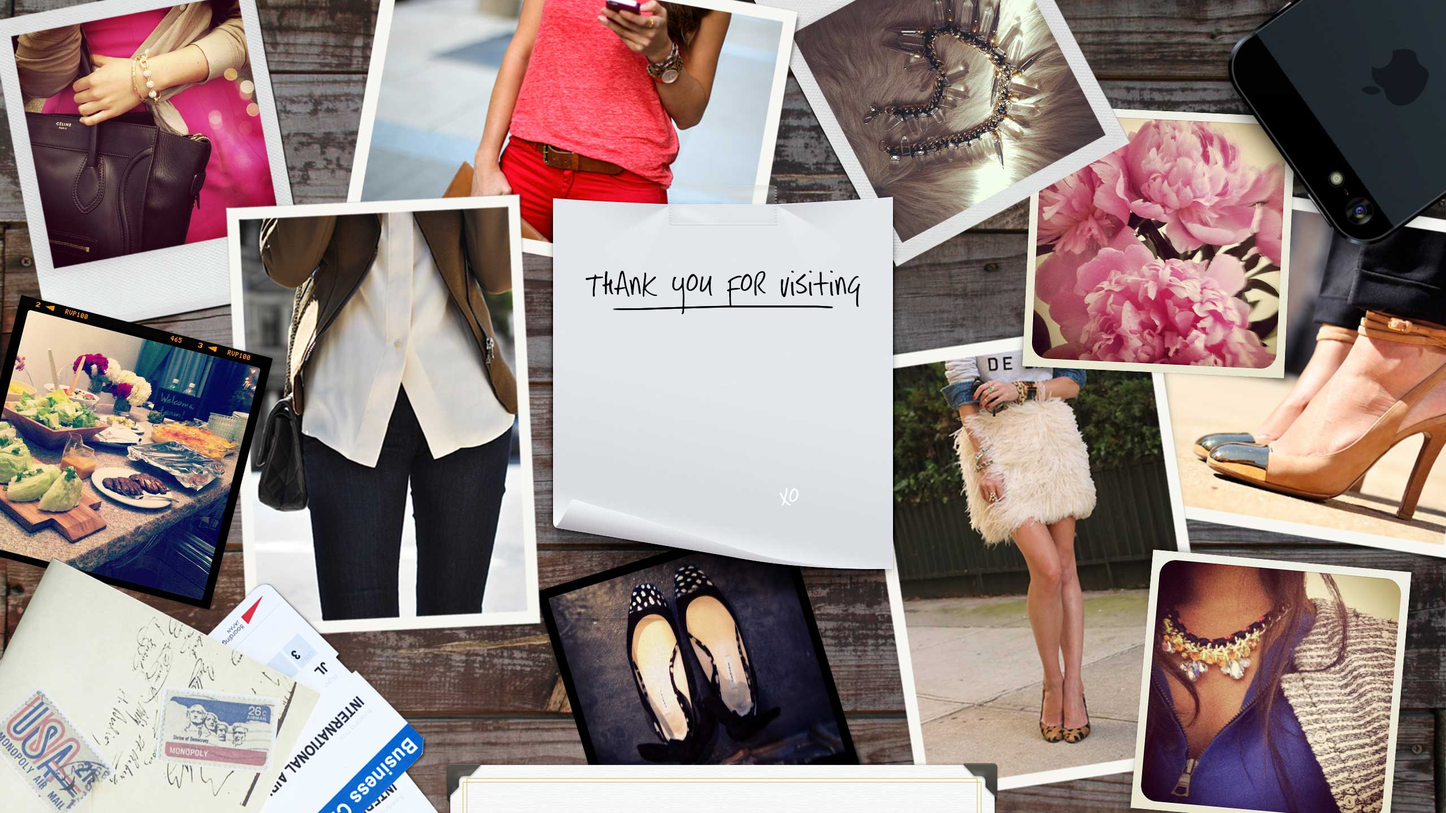
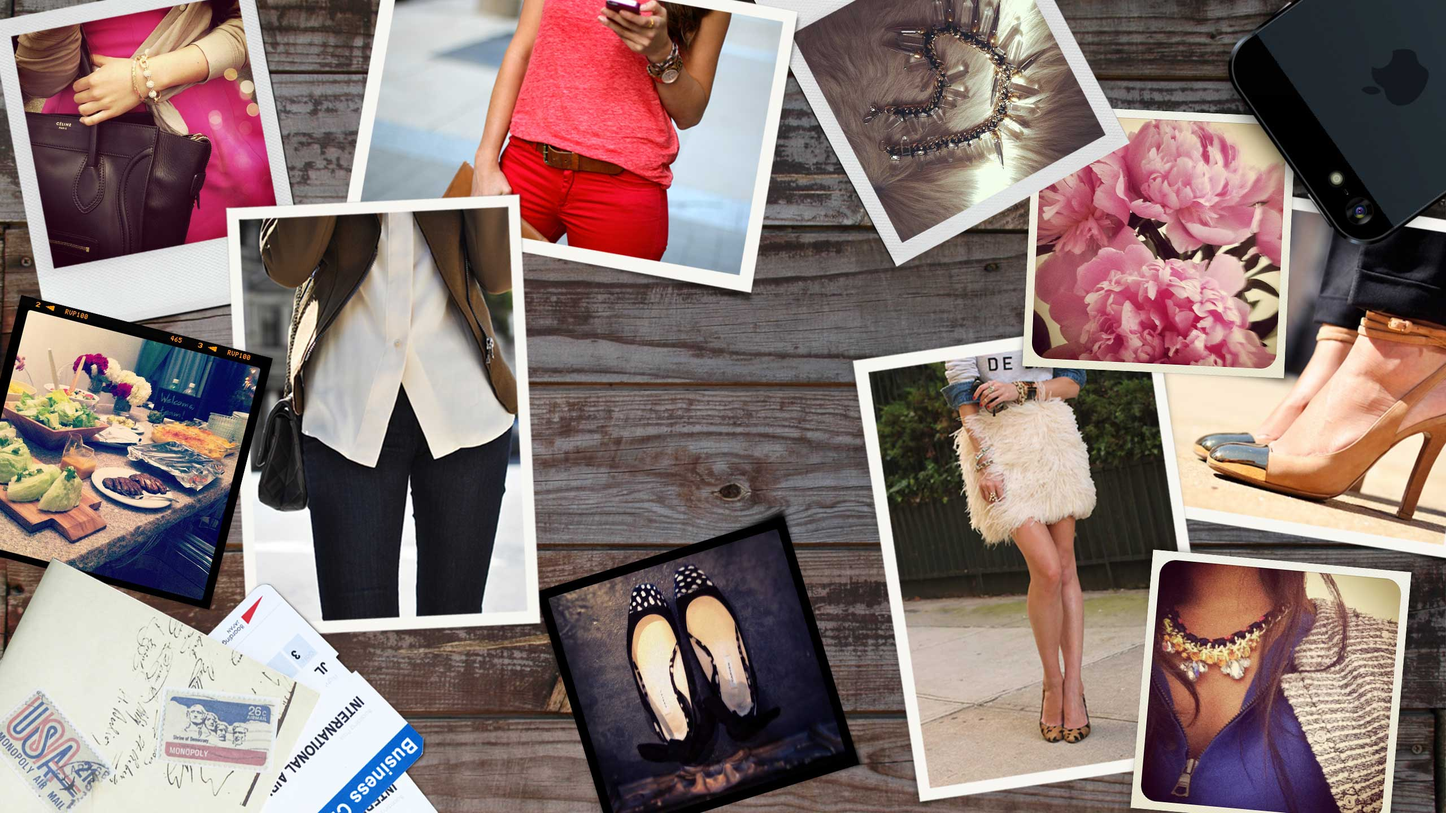
adjust

Changed region(s): [[0.375, 0.2188, 0.625, 0.75], [0.3125, 0.9375, 0.6875, 1.0]]

diff --git a/app/assets/stylesheets/application.css b/app/assets/stylesheets/application.css
@@ -37,10 +37,19 @@ html {
 }
 
 .invite-container {
+	width: 335px;
+	height: 423px;
+	background: url(note.png) no-repeat top center;	
+}
+
+
+/* Used for invite form */
+.invitation-container {
 	-webkit-perspective: 800px;
 	-moz-perspective: 800px;
-	perspective: 800px;
+	perspective: 800px;	
 }
+
 
 #card {
 	width: 100%;
